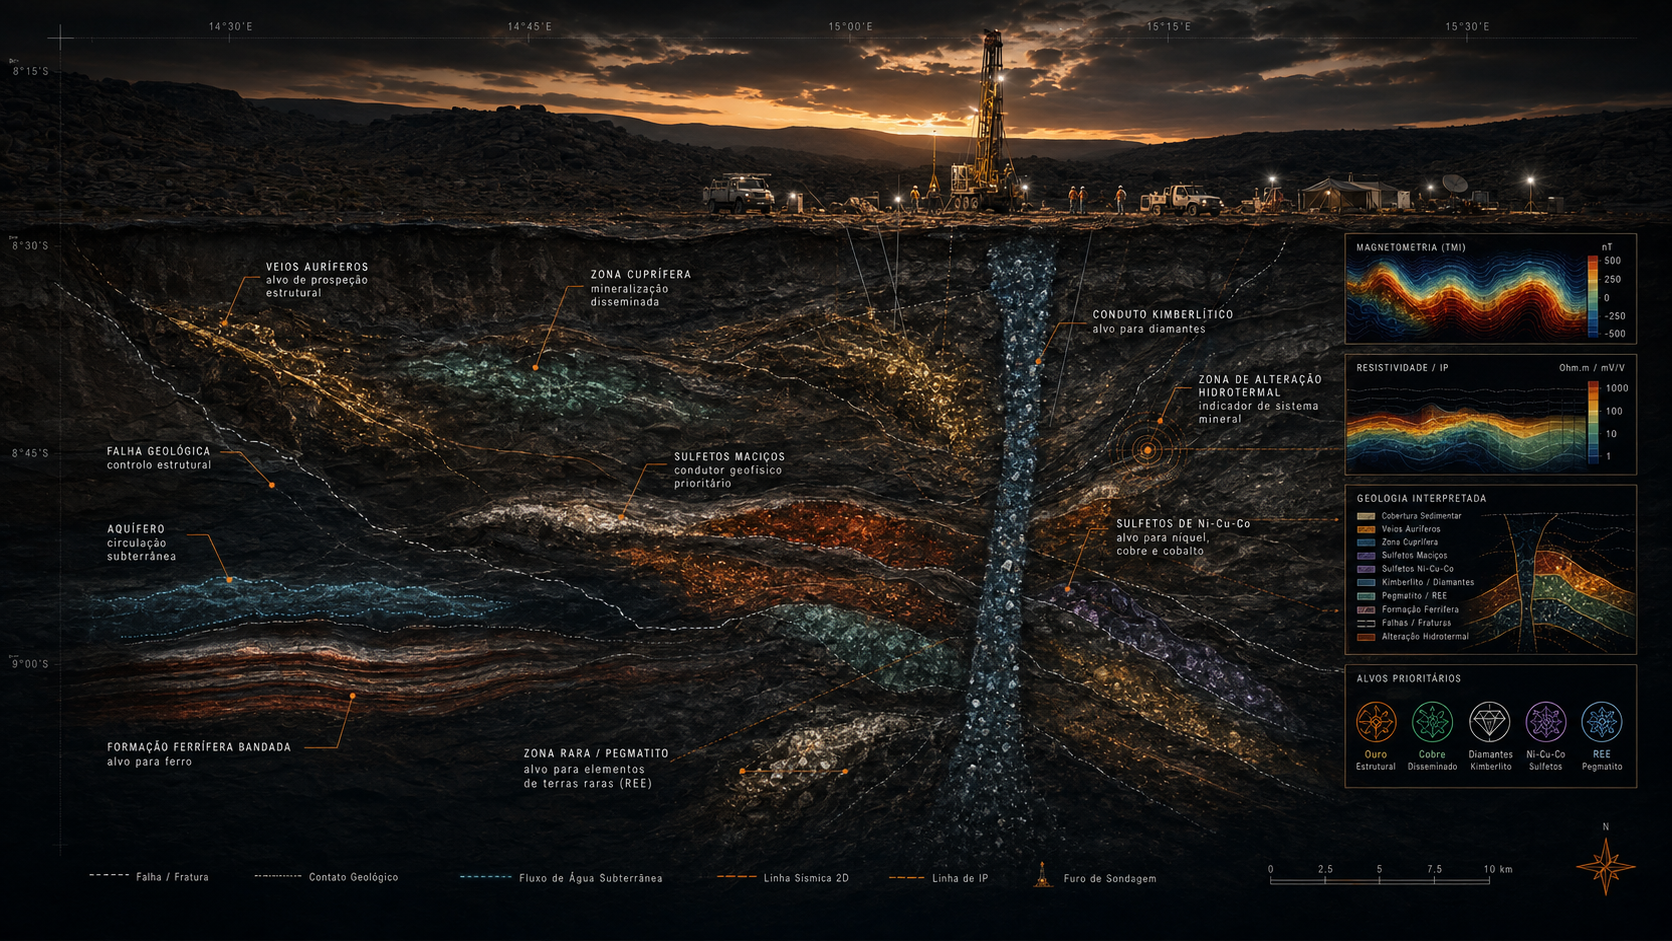
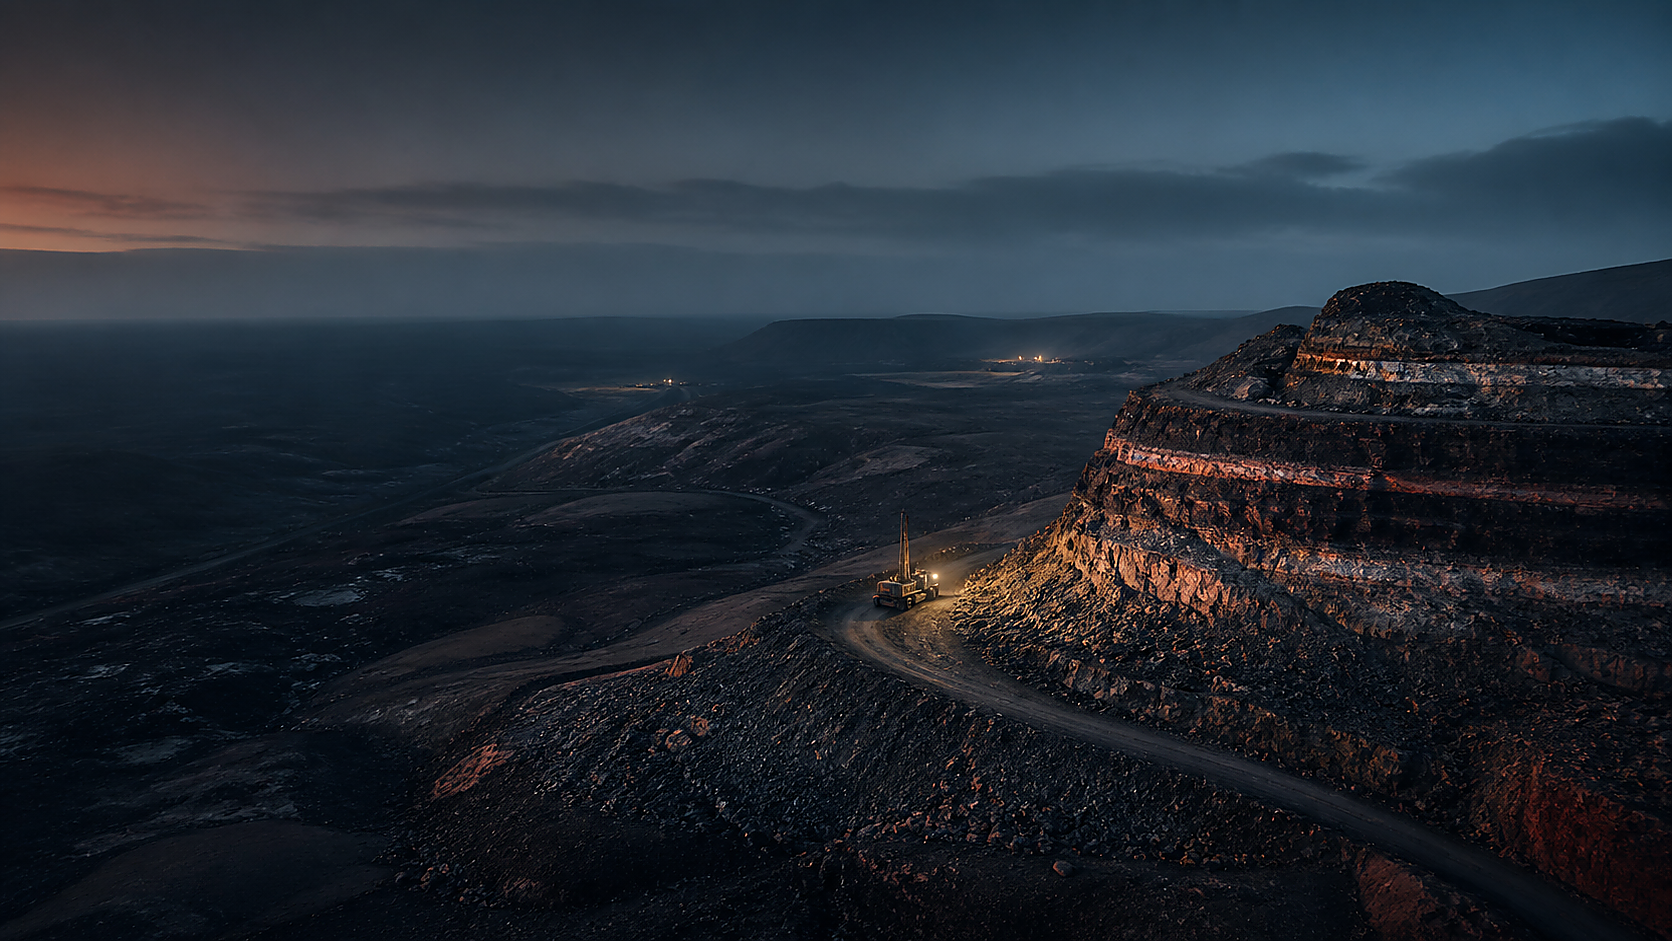
fix: nitidez da og.png (imagem de partilha social) + versionar

diff --git a/assets/geovalor-text-flow.js b/assets/geovalor-text-flow.js
@@ -64,13 +64,13 @@
       ['property', 'og:title', 'Geovalor — Leitura do subsolo'],
       ['property', 'og:description', 'Do terreno ao parecer: interpretação geológica, alvos minerais e perfuração orientada por dados.'],
       ['property', 'og:url', siteOrigin],
-      ['property', 'og:image', siteOrigin + '/assets/og.png'],
+      ['property', 'og:image', siteOrigin + '/assets/og.png?v=2'],
       ['property', 'og:image:width', '1672'],
       ['property', 'og:image:height', '941'],
       ['name', 'twitter:card', 'summary_large_image'],
       ['name', 'twitter:title', 'Geovalor — Leitura do subsolo'],
       ['name', 'twitter:description', 'Interpretação geológica e prospecção de recursos em território angolano.'],
-      ['name', 'twitter:image', siteOrigin + '/assets/og.png']
+      ['name', 'twitter:image', siteOrigin + '/assets/og.png?v=2']
     ];
     metadata.forEach(function (item) {
       var selector = 'meta[' + item[0] + '="' + item[1] + '"]';

diff --git a/release/assets/geovalor-text-flow.js b/release/assets/geovalor-text-flow.js
@@ -64,13 +64,13 @@
       ['property', 'og:title', 'Geovalor — Leitura do subsolo'],
       ['property', 'og:description', 'Do terreno ao parecer: interpretação geológica, alvos minerais e perfuração orientada por dados.'],
       ['property', 'og:url', siteOrigin],
-      ['property', 'og:image', siteOrigin + '/assets/og.png'],
+      ['property', 'og:image', siteOrigin + '/assets/og.png?v=2'],
       ['property', 'og:image:width', '1672'],
       ['property', 'og:image:height', '941'],
       ['name', 'twitter:card', 'summary_large_image'],
       ['name', 'twitter:title', 'Geovalor — Leitura do subsolo'],
       ['name', 'twitter:description', 'Interpretação geológica e prospecção de recursos em território angolano.'],
-      ['name', 'twitter:image', siteOrigin + '/assets/og.png']
+      ['name', 'twitter:image', siteOrigin + '/assets/og.png?v=2']
     ];
     metadata.forEach(function (item) {
       var selector = 'meta[' + item[0] + '="' + item[1] + '"]';
